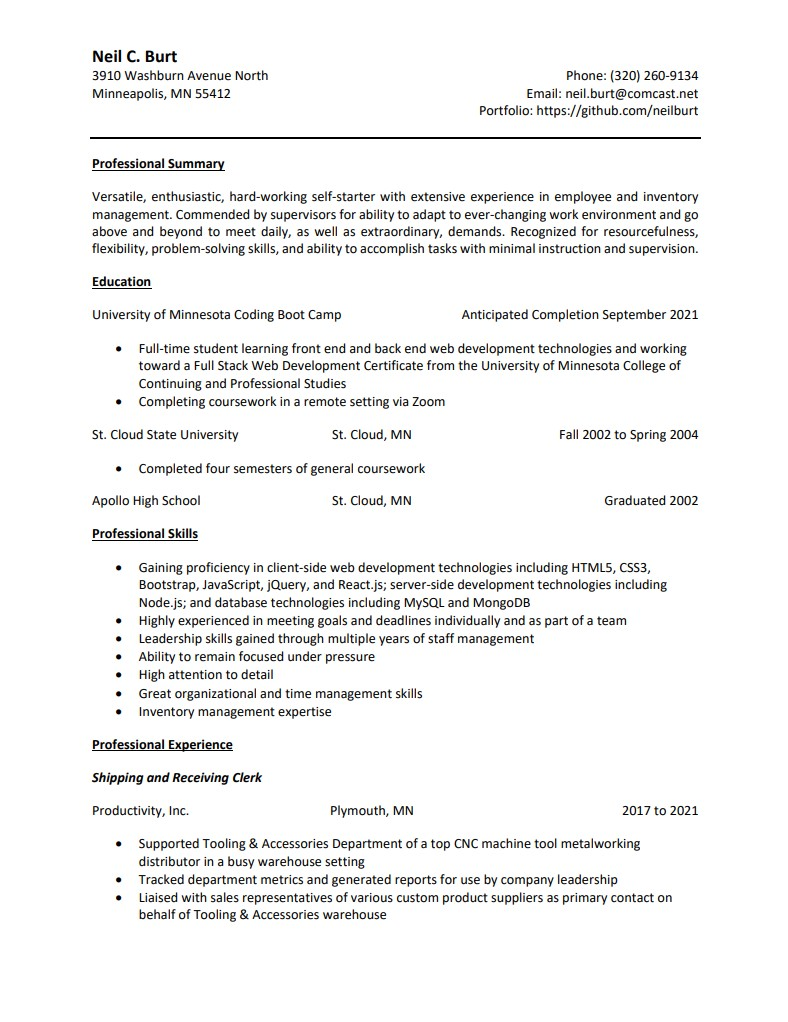
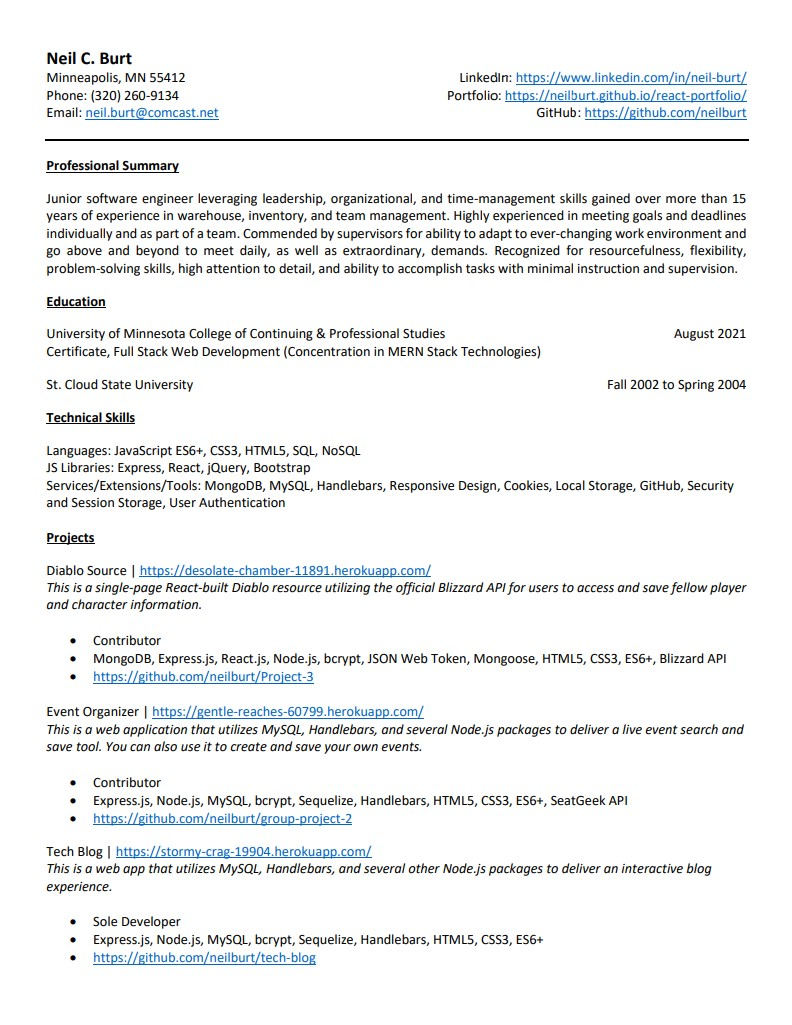
Updated resume.

Changed region(s): [[0.0609, 0.0303, 0.9442, 0.9403]]

diff --git a/src/components/pages/Resume.js b/src/components/pages/Resume.js
@@ -16,7 +16,7 @@ export default function Resume() {
       <div className="d-flex flex-row text-center">
         <div className="resume-sheets">
           <a
-            href="https://drive.google.com/file/d/1Z2l2-oPMZ8BYPTgHP2w-gpYnsQ5GEZ7e/view?usp=sharing"
+            href="https://drive.google.com/file/d/1yI_f6qEparCPP23w5YY2s4BZDPwqf5xX/view?usp=sharing"
             target="_blank"
             rel="noreferrer">
             <img
@@ -26,7 +26,7 @@ export default function Resume() {
             </img>
           </a>
           <a
-            href="https://drive.google.com/file/d/1Z2l2-oPMZ8BYPTgHP2w-gpYnsQ5GEZ7e/view?usp=sharing"
+            href="https://drive.google.com/file/d/1yI_f6qEparCPP23w5YY2s4BZDPwqf5xX/view?usp=sharing"
             target="_blank"
             rel="noreferrer">
             <img
